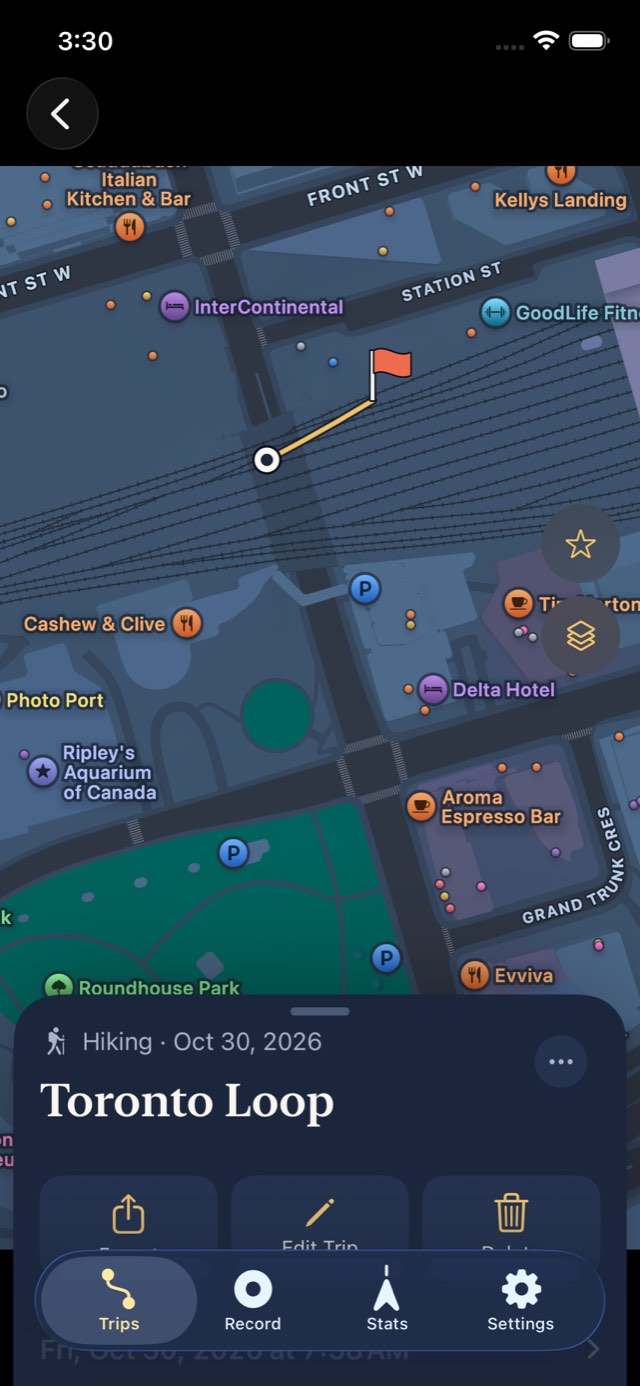
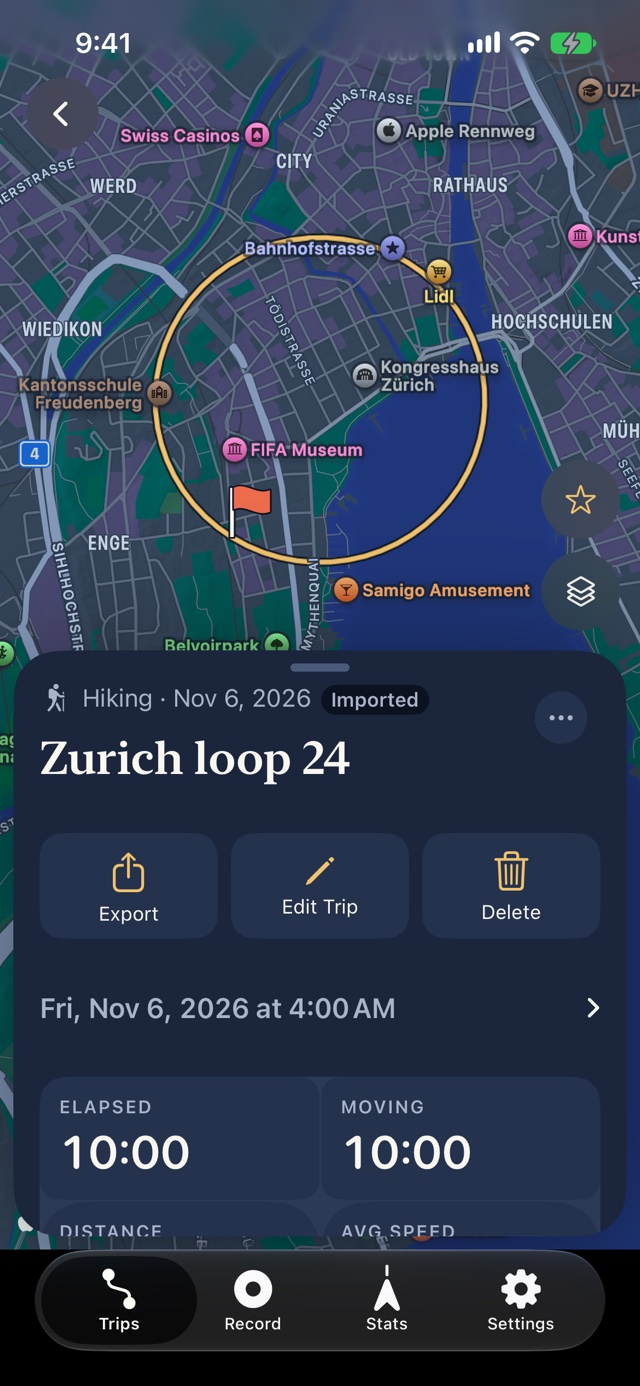
new screenshots

diff --git a/index.html b/index.html
@@ -268,13 +268,13 @@
       <h2 id="shotsh">What a trip looks like</h2>
       <div class="carousel" id="carousel" role="region" aria-roledescription="carousel" aria-label="Traceata screenshots. Use the left and right arrow keys to move between them." tabindex="0">
         <div class="track" id="track">
-          <figure class="shot"><img src="images/screenshots/01-recording-live-map.jpg" width="390" height="844" alt="Recording a hike on the live map: the route so far, nearby places, and pause, discard and finish controls" decoding="async"></figure>
-          <figure class="shot"><img src="images/screenshots/02-recording-speedometer.jpg" width="390" height="844" alt="Recording with the analogue speedometer widget, showing live speed and distance so far" decoding="async"></figure>
-          <figure class="shot"><img src="images/screenshots/03-trips-list.jpg" width="390" height="844" alt="Trips list filtered to starred trips, each with a route thumbnail, distance and time" decoding="async"></figure>
-          <figure class="shot"><img src="images/screenshots/04-trip-detail-map.jpg" width="390" height="844" alt="Trip page for the Toronto Loop hike: the route on the map with start and finish, and the trip's info panel" decoding="async"></figure>
-          <figure class="shot"><img src="images/screenshots/05-trip-photos-on-map.jpg" width="390" height="844" alt="A trip's photos pinned where they were taken on the map, with a sheet of 12 photos and videos" decoding="async"></figure>
-          <figure class="shot"><img src="images/screenshots/06-trip-video-setup.jpg" width="390" height="844" alt="Setting up a trip video: format, length, quality, route marker and which notes appear along the route" decoding="async"></figure>
-          <figure class="shot"><img src="images/screenshots/07-stats.jpg" width="390" height="844" alt="Lifetime stats: total distance, trips, time out there and elevation gain, plus the northernmost and southernmost points reached" decoding="async"></figure>
+          <figure class="shot"><img src="images/screenshots/01-recording-live-map.jpg?v=20261109" width="390" height="844" alt="Recording a hike on the live map: the route so far, elapsed time and distance, and the Finish and Add note controls" decoding="async"></figure>
+          <figure class="shot"><img src="images/screenshots/02-recording-speedometer.jpg?v=20261109" width="390" height="844" alt="Recording with the analogue speedometer widget, showing live speed and distance so far" decoding="async"></figure>
+          <figure class="shot"><img src="images/screenshots/03-trips-list.jpg?v=20261109" width="390" height="844" alt="Trips list filtered to starred trips, with a route thumbnail, distance and time" decoding="async"></figure>
+          <figure class="shot"><img src="images/screenshots/04-trip-detail-map.jpg?v=20261109" width="390" height="844" alt="Trip page for the Zurich loop 24 hike: the route on the map with start and finish, and the trip's info panel" decoding="async"></figure>
+          <figure class="shot"><img src="images/screenshots/05-trip-photos-on-map.jpg?v=20261109" width="390" height="844" alt="A trip's photos pinned where they were taken on the map, grouped with counts, and a sheet showing one group's photos" decoding="async"></figure>
+          <figure class="shot"><img src="images/screenshots/06-trip-video-setup.jpg?v=20261109" width="390" height="844" alt="Setting up a trip video: format, length, quality, route marker and which notes and photos appear along the route" decoding="async"></figure>
+          <figure class="shot"><img src="images/screenshots/07-stats.jpg?v=20261109" width="390" height="844" alt="Stats for the month: total distance, trips and time out there, a monthly bar chart, and the northernmost and southernmost points reached" decoding="async"></figure>
         </div>
       </div>
       <div class="carousel-controls">
